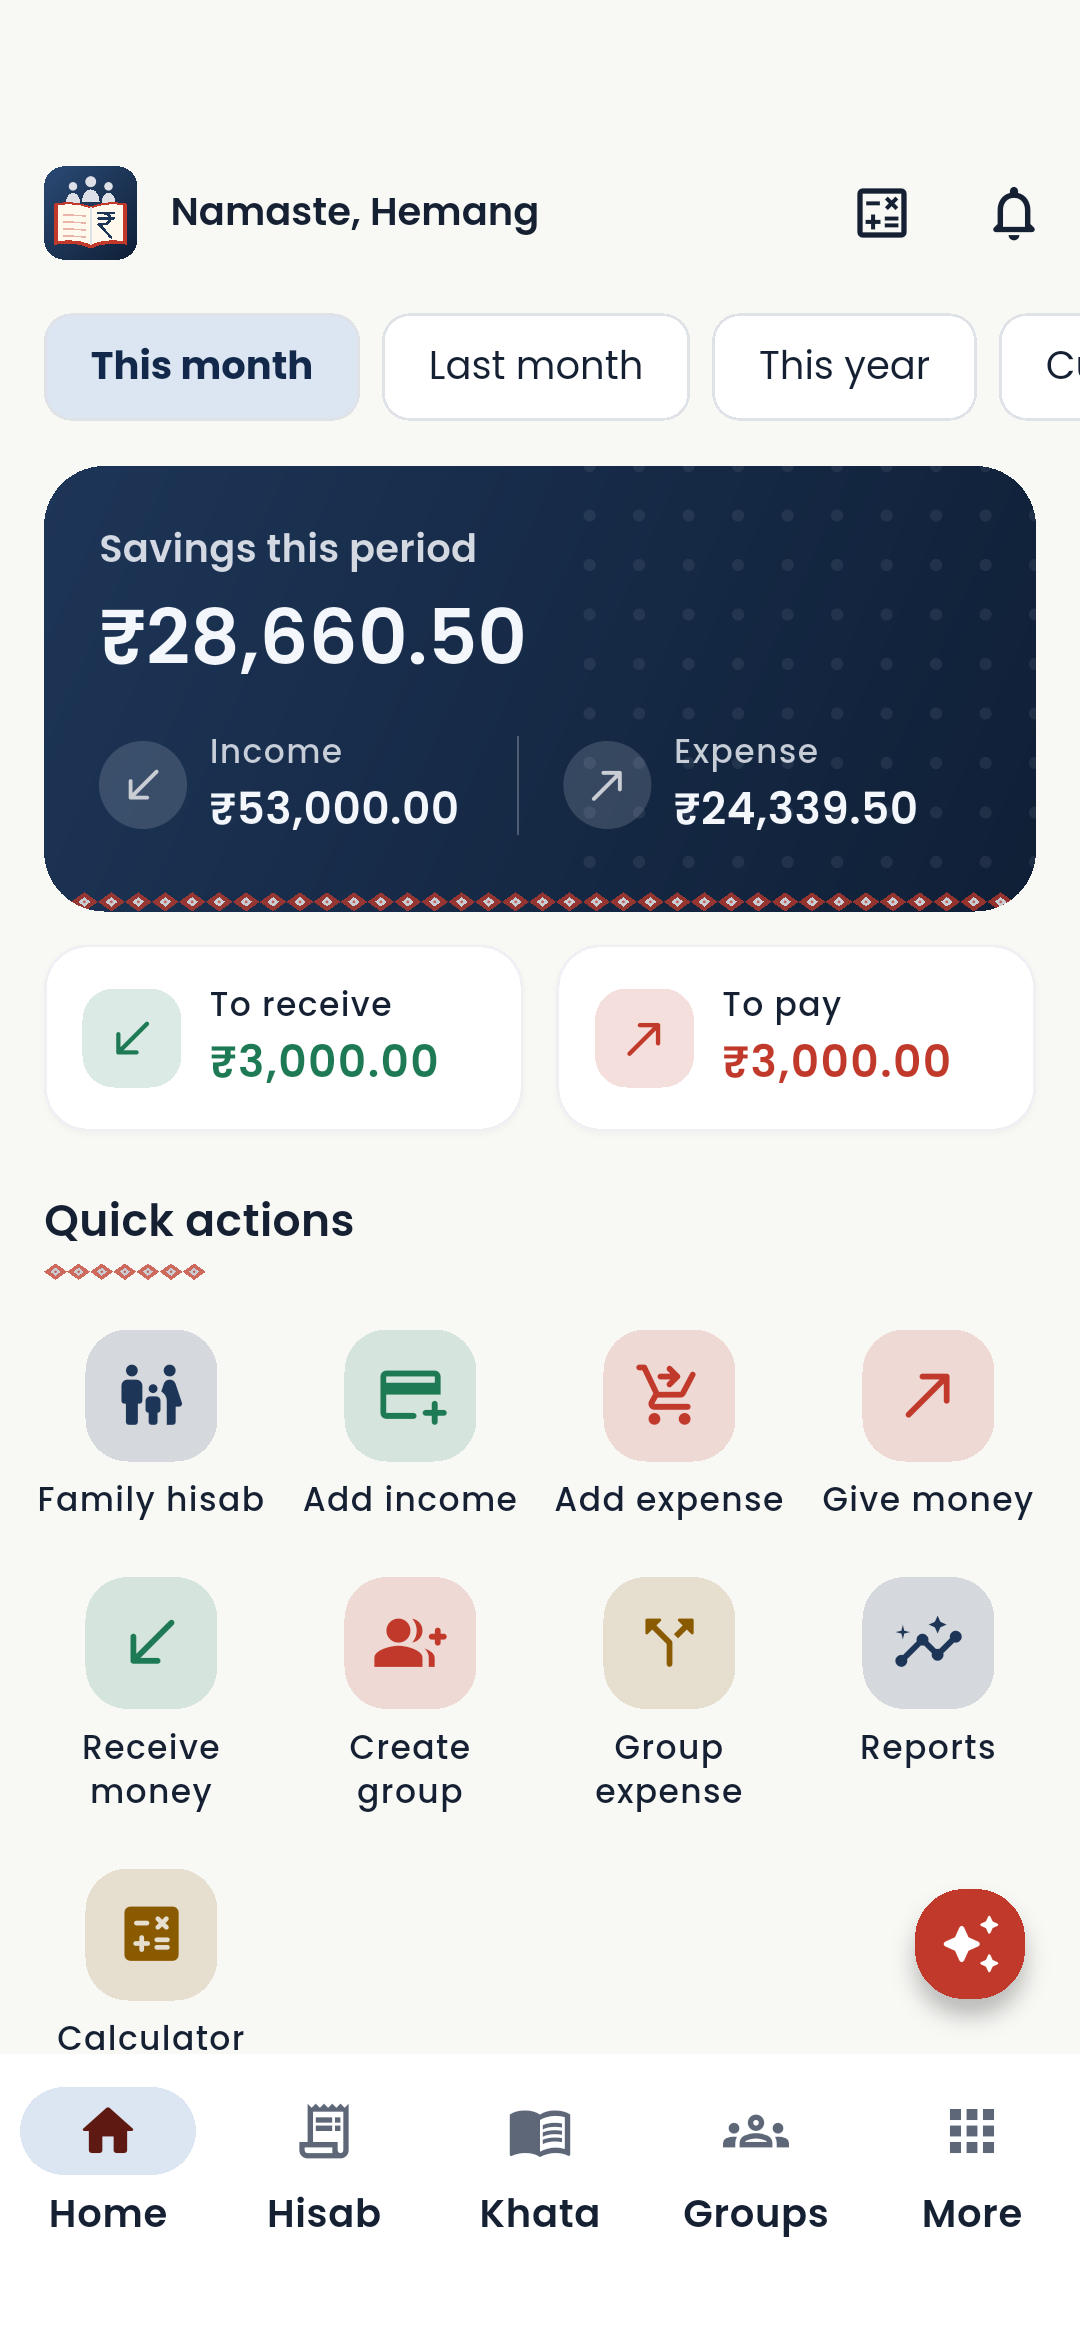
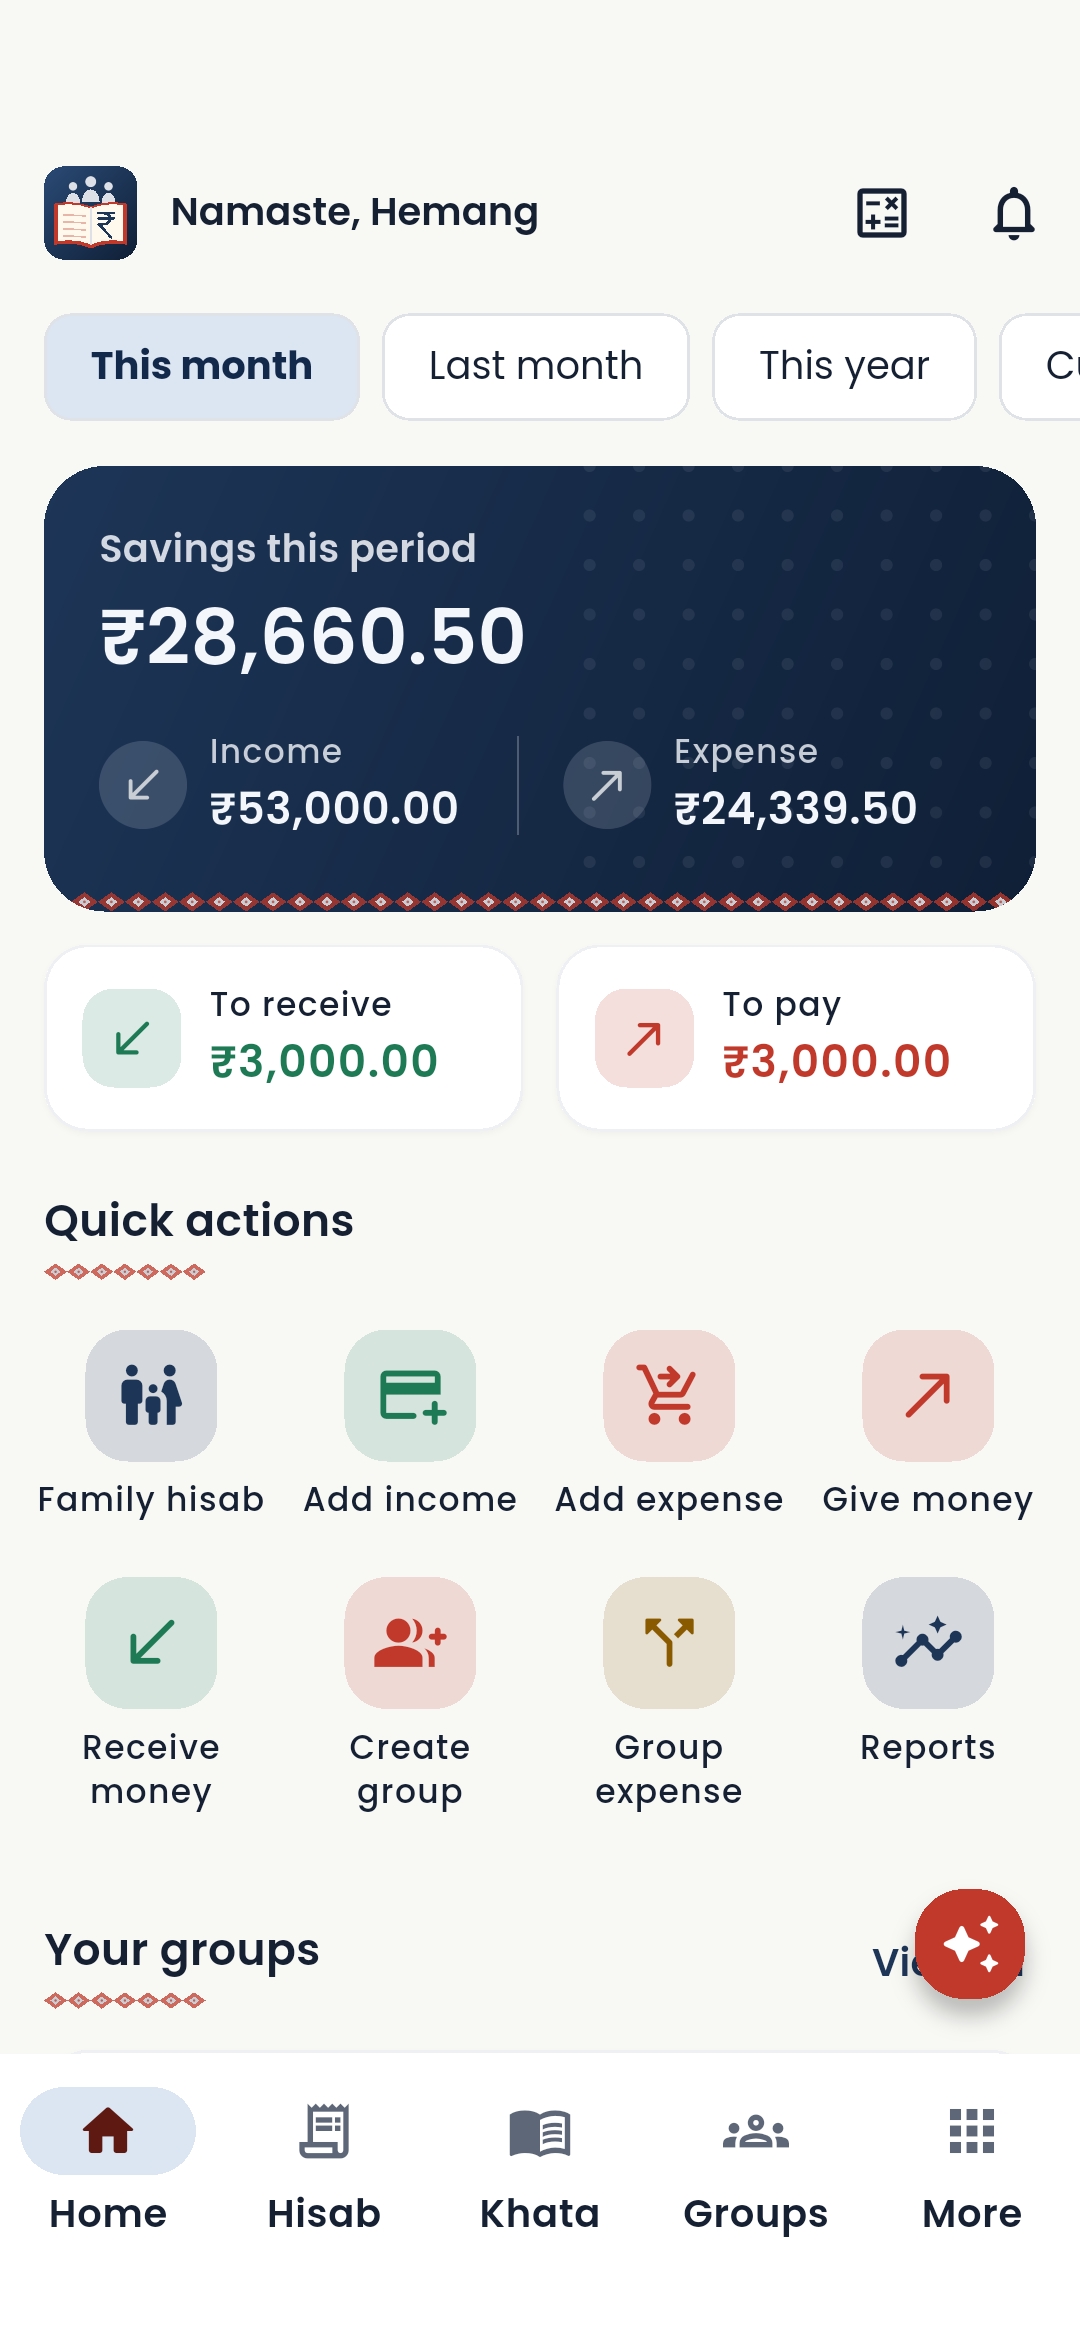
Release 1.3.1: Family hisab fixes
- The statement says "no longer exists" when its Family hisab is deleted
  while open (it kept loading).
- Deleting a money-out entry removes its bills from every member's phone.
- The assistant finds a category from Gujarati word endings ("કરિયાણા",
  "કરિયાણામાં" → Groceries); the Gujarati example reads naturally.
- Home quick actions: eight tiles in two full rows (the calculator stays in
  the top bar and More).
- Version 1.3.1+7, release notes, fresh screenshots.

Changed region(s): [[0.0306, 0.7799, 0.3056, 0.8735], [0.825, 0.8111, 0.8556, 0.8423]]

diff --git a/lib/features/family/data/family_repository.dart b/lib/features/family/data/family_repository.dart
@@ -11,6 +11,7 @@ import '../../../core/l10n/l10n_x.dart';
 import '../../../core/providers.dart';
 import '../../../core/utils/date_range.dart';
 import '../../../core/utils/stream_combine.dart';
+import '../../attachments/data/attachment_service.dart';
 import '../../categories/presentation/category_labels.dart';
 import '../../synchronization/application/sync_controller.dart';
 import '../../transactions/domain/transaction_models.dart';
@@ -135,7 +136,11 @@ class FamilyRepository {
     this._clock,
     this._ids, {
     String? Function()? currentUserId,
+    this._deleteFiles,
   }) : _currentUserId = currentUserId ?? (() => null);
+
+  /// Removes bill files from the phone (their records are already gone).
+  final Future<void> Function(List<String> storedNames)? _deleteFiles;
 
   final AppDatabase _db;
   final Clock _clock;
@@ -455,22 +460,36 @@ class FamilyRepository {
     });
   }
 
-  Future<void> deleteEntry(String id) => _db.transaction(() async {
-    final e = await (_db.select(
-      _db.familyEntriesCache,
-    )..where((x) => x.id.equals(id))).getSingle();
-    final now = _clock.now();
-    await (_db.update(
-      _db.familyEntriesCache,
-    )..where((x) => x.id.equals(id))).write(
-      FamilyEntriesCacheCompanion(
-        deletedAt: Value(now),
-        syncState: const Value(SyncState.pending),
-        updatedAt: Value(now),
-      ),
-    );
-    await _enqueue(e.familyId, 'entry', id, true, e.revision, const {}, now);
-  });
+  /// Deletes an entry; its bills go from the phone with it.
+  Future<void> deleteEntry(String id) async {
+    final files = await _db.transaction(() async {
+      final e = await (_db.select(
+        _db.familyEntriesCache,
+      )..where((x) => x.id.equals(id))).getSingle();
+      final now = _clock.now();
+      await (_db.update(
+        _db.familyEntriesCache,
+      )..where((x) => x.id.equals(id))).write(
+        FamilyEntriesCacheCompanion(
+          deletedAt: Value(now),
+          syncState: const Value(SyncState.pending),
+          updatedAt: Value(now),
+        ),
+      );
+      await _enqueue(e.familyId, 'entry', id, true, e.revision, const {}, now);
+      final bills = await (_db.select(
+        _db.attachments,
+      )..where((a) => a.familyEntryId.equals(id))).get();
+      await (_db.delete(
+        _db.attachments,
+      )..where((a) => a.familyEntryId.equals(id))).go();
+      return [
+        for (final b in bills)
+          if (b.storedName.isNotEmpty) b.storedName,
+      ];
+    });
+    if (files.isNotEmpty) await _deleteFiles?.call(files);
+  }
 
   // --------------------------------------------------------------- helpers
 
@@ -560,6 +579,8 @@ final familyRepositoryProvider = Provider<FamilyRepository>(
     ref.watch(clockProvider),
     ref.watch(idGeneratorProvider),
     currentUserId: () => ref.read(cloudGatewayProvider).currentSession?.userId,
+    deleteFiles: (names) =>
+        ref.read(attachmentServiceProvider).deleteFiles(names),
   ),
 );
 

diff --git a/test/features/family/family_bills_test.dart b/test/features/family/family_bills_test.dart
@@ -23,7 +23,6 @@ class Phone {
   Phone(FakeCloudServer server, String uid, this.dir) {
     cloud = FakeCloudClient(server, uid);
     const ids = IdGenerator();
-    family = FamilyRepository(db, clock, ids, currentUserId: () => uid);
     files = AttachmentService(
       db,
       clock,
@@ -39,6 +38,14 @@ class Phone {
       beforePush: files.uploadPendingFiles,
     );
     sharing = FamilySharing(cloud, sync);
+    family = FamilyRepository(
+      db,
+      clock,
+      ids,
+      currentUserId: () => uid,
+      deleteFiles: files.deleteFiles,
+    );
+    sync.familyRows.onFilesRemoved = files.deleteFiles;
   }
 
   final Directory dir;
@@ -140,6 +147,26 @@ void main() {
       (await hemang.family.watchFamily(home).first)!.billEntryIds,
       isEmpty,
     );
+  });
+
+  test('a deleted entry takes its bills off both phones', () async {
+    await hemang.sync.syncOnce();
+    await hemang.sync.syncOnce();
+    await rahul.sync.syncOnce();
+    final mine = (await hemang.bills()).single;
+    expect((await hemang.files.fileFor(mine.storedName)).existsSync(), isTrue);
+    expect(await rahul.bills(), hasLength(1));
+
+    await hemang.family.deleteEntry(rent);
+    expect(await hemang.bills(), isEmpty);
+    expect(
+      (await hemang.files.fileFor(mine.storedName)).existsSync(),
+      isFalse,
+      reason: 'the file goes too',
+    );
+    await hemang.sync.syncOnce();
+    await rahul.sync.syncOnce();
+    expect(await rahul.bills(), isEmpty);
   });
 
   test('a new phone gets the bills with the Family hisab', () async {

diff --git a/lib/features/ai_assistant/domain/ai_intent_parser.dart b/lib/features/ai_assistant/domain/ai_intent_parser.dart
@@ -288,6 +288,20 @@ class AiIntentParser {
     return best;
   }
 
+  /// A Gujarati word without its ending vowel signs, so "કરિયાણું" also
+  /// finds "કરિયાણા" and "કરિયાણામાં" (null when nothing was removed or the
+  /// stem would be too short to be safe).
+  static String? _stem(String word) {
+    var end = word.length;
+    bool sign(int c) =>
+        (c >= 0x0A81 && c <= 0x0A83) || // candrabindu, anusvara, visarga
+        (c >= 0x0ABE && c <= 0x0ACD); // vowel signs and virama
+    while (end > 0 && sign(word.codeUnitAt(end - 1))) {
+      end--;
+    }
+    return end < word.length && end >= 3 ? word.substring(0, end) : null;
+  }
+
   String? _category(String q, TransactionType type) {
     String? best;
     var bestLen = 0;
@@ -295,7 +309,12 @@ class AiIntentParser {
       for (final name in c.names) {
         final n = name.toLowerCase();
         final word = n.split(RegExp(r'[\s&]+')).first;
-        for (final candidate in [n, if (word.length >= 4) word]) {
+        for (final candidate in [
+          n,
+          if (word.length >= 4) word,
+          ?_stem(n),
+          if (word != n) ?_stem(word),
+        ]) {
           if (candidate.isNotEmpty &&
               q.contains(candidate) &&
               candidate.length > bestLen) {

diff --git a/test/widget/family_statement_test.dart b/test/widget/family_statement_test.dart
@@ -57,4 +57,41 @@ void main() {
     expect(find.byTooltip('Send on WhatsApp to Priya Shah'), findsNothing);
     expect(find.byTooltip('Share'), findsOneWidget);
   });
+
+  testApp('the statement says so when its Family hisab is deleted', (
+    tester,
+  ) async {
+    final db = await pumpHisabMitra(tester);
+    final repo = FamilyRepository(db, const Clock(), const IdGenerator());
+    final id = await repo.createFamily(
+      const FamilyDraft(name: 'Home'),
+      selfName: 'Hemang',
+    );
+    await tester.pumpAndSettle();
+    await tap(tester, find.text('More').last);
+    await tap(tester, find.byKey(const Key('more-family')));
+    await tap(tester, find.byTooltip('Statement'));
+    expect(find.text('Home — ${_month(DateTime.now())}'), findsOneWidget);
+
+    await repo.deleteFamily(id); // e.g. from another phone
+    await tester.pumpAndSettle();
+    expect(find.text('This record no longer exists.'), findsOneWidget);
+    expect(find.byType(CircularProgressIndicator), findsNothing);
+  });
 }
+
+const _months = [
+  'January',
+  'February',
+  'March',
+  'April',
+  'May',
+  'June',
+  'July',
+  'August',
+  'September',
+  'October',
+  'November',
+  'December',
+];
+String _month(DateTime d) => '${_months[d.month - 1]} ${d.year}';

diff --git a/test/widget/dashboard_family_test.dart b/test/widget/dashboard_family_test.dart
@@ -1,4 +1,5 @@
-import 'package:flutter/widgets.dart';
+import 'package:flutter/material.dart';
+import 'package:hisabmitra/features/tour/application/tour_controller.dart';
 import 'package:flutter_test/flutter_test.dart';
 import 'package:hisabmitra/features/dashboard/presentation/income_expense_chart.dart';
 
@@ -40,5 +41,26 @@ void main() {
     await tester.pumpAndSettle();
     expect(find.text('₹50,000.00'), findsOneWidget);
     expect(find.textContaining('Includes Family hisab'), findsNothing);
+  });
+
+  testApp('Home has eight quick actions in two full rows', (tester) async {
+    await pumpHisabMitra(tester);
+    final actions = find.byKey(TourTargets.quickActions);
+    await tester.ensureVisible(actions);
+    await tester.pumpAndSettle();
+    expect(
+      find.descendant(of: actions, matching: find.byType(InkWell)),
+      findsNWidgets(8),
+    );
+    expect(
+      find.descendant(of: actions, matching: find.text('Family hisab')),
+      findsOneWidget,
+    );
+    expect(
+      find.descendant(of: actions, matching: find.text('Calculator')),
+      findsNothing,
+      reason: 'the calculator stays in the top bar and in More',
+    );
+    expect(find.byTooltip('Calculator'), findsWidgets);
   });
 }

diff --git a/lib/features/synchronization/data/family_rows.dart b/lib/features/synchronization/data/family_rows.dart
@@ -162,6 +162,7 @@ class FamilyRowApplier {
             _db.familyEntriesCache,
           )..where((e) => e.id.equals(id))).write(row);
         }
+        if (deletedAt != null) await _removeBillsOf(id);
       case 'attachment':
         if (deleted) {
           final rows = await (_db.select(
@@ -203,6 +204,22 @@ class FamilyRowApplier {
         return false;
     }
     return true;
+  }
+
+  /// Removes the bills of a deleted entry (records and files).
+  Future<void> _removeBillsOf(String entryId) async {
+    final bills = await (_db.select(
+      _db.attachments,
+    )..where((a) => a.familyEntryId.equals(entryId))).get();
+    if (bills.isEmpty) return;
+    await (_db.delete(
+      _db.attachments,
+    )..where((a) => a.familyEntryId.equals(entryId))).go();
+    final names = [
+      for (final b in bills)
+        if (b.storedName.isNotEmpty) b.storedName,
+    ];
+    if (names.isNotEmpty) await onFilesRemoved?.call(names);
   }
 
   /// Sets the server revision and/or upload state of one row.

diff --git a/test/features/ai_assistant/ai_family_test.dart b/test/features/ai_assistant/ai_family_test.dart
@@ -86,6 +86,25 @@ void main() {
       );
     });
 
+    test('Gujarati word endings still find the category', () {
+      for (final q in [
+        'આ મહિને ઘરમાં કરિયાણા પર કેટલો ખર્ચ થયો?',
+        'આ મહિને ઘરમાં કરિયાણામાં કેટલો ખર્ચ થયો?',
+      ]) {
+        final parsed = parser(family: 'ઘર').parse(q);
+        expect(
+          (parsed.intent, parsed.categoryId),
+          (AiIntent.familySpend, 'cat_groceries'),
+          reason: q,
+        );
+      }
+      final draft = parser().parse('કરિયાણા માટે 500 ઉમેરો');
+      expect(
+        (draft.intent, draft.categoryId),
+        (AiIntent.draft, 'cat_groceries'),
+      );
+    });
+
     test('Gujarati', () {
       final q = parser(family: 'ઘર')
           .parse('આ મહિને ઘરમાં કરિયાણું પર કેટલો ખર્ચ થયો?');

diff --git a/lib/features/family/presentation/family_statement_screen.dart b/lib/features/family/presentation/family_statement_screen.dart
@@ -32,11 +32,19 @@ class FamilyStatementScreen extends ConsumerWidget {
     final l = context.l10n;
     final fmt = ref.watch(formattersProvider);
     final hm = HmColors.of(context);
-    final detail = ref.watch(familyDetailProvider(familyId)).value;
+    final loaded = ref.watch(familyDetailProvider(familyId));
+    final detail = loaded.value;
     if (detail == null) {
+      // Still loading, or the Family hisab was deleted (here or on another
+      // phone) while this page was open.
       return Scaffold(
         appBar: AppBar(title: Text(l.familyStatement)),
-        body: const LoadingView(),
+        body: loaded.hasValue
+            ? EmptyState(
+                icon: Icons.family_restroom_rounded,
+                title: l.errorNotFound,
+              )
+            : const LoadingView(),
       );
     }
     final s = detail.month(year, month);

diff --git a/lib/features/dashboard/presentation/dashboard_screen.dart b/lib/features/dashboard/presentation/dashboard_screen.dart
@@ -404,12 +404,7 @@ class _QuickActions extends ConsumerWidget {
         scheme.primary,
         () => context.push(Routes.reports),
       ),
-      (
-        Icons.calculate_rounded,
-        l.calculatorTitle,
-        hm.accentInk,
-        () => context.push(Routes.calculator),
-      ),
+      // Eight tiles: two full rows. The calculator is in the top bar and More.
     ];
     return Padding(
       padding: const EdgeInsets.symmetric(horizontal: 8),

diff --git a/lib/l10n/app_localizations_gu.dart b/lib/l10n/app_localizations_gu.dart
@@ -397,7 +397,7 @@ class AppLocalizationsGu extends AppLocalizations {
 
   @override
   String aiExampleFamilyGroceries(String family) {
-    return 'આ મહિને $familyમાં કરિયાણું કેટલું આવ્યું?';
+    return 'આ મહિને $familyમાં કરિયાણા પર કેટલો ખર્ચ થયો?';
   }
 
   @override

diff --git a/docs/release-notes/v1.3.1.md b/docs/release-notes/v1.3.1.md
@@ -1,0 +1,12 @@
+### HisabMitra 1.3.1 — small fixes for Family hisab
+
+- **Statement:** if a Family hisab is deleted (here or on another phone)
+  while its statement is open, the page now says so instead of loading
+  forever.
+- **Bills:** deleting a money-out entry also removes its bill photos from
+  every member's phone.
+- **Assistant in Gujarati:** questions with everyday word endings are
+  understood — "આ મહિને ઘરમાં કરિયાણા પર કેટલો ખર્ચ થયો?" finds
+  Groceries just like "કરિયાણું".
+- **Home:** the quick actions are now two tidy rows of four. The calculator
+  is still one tap away in the top bar (and in More).
